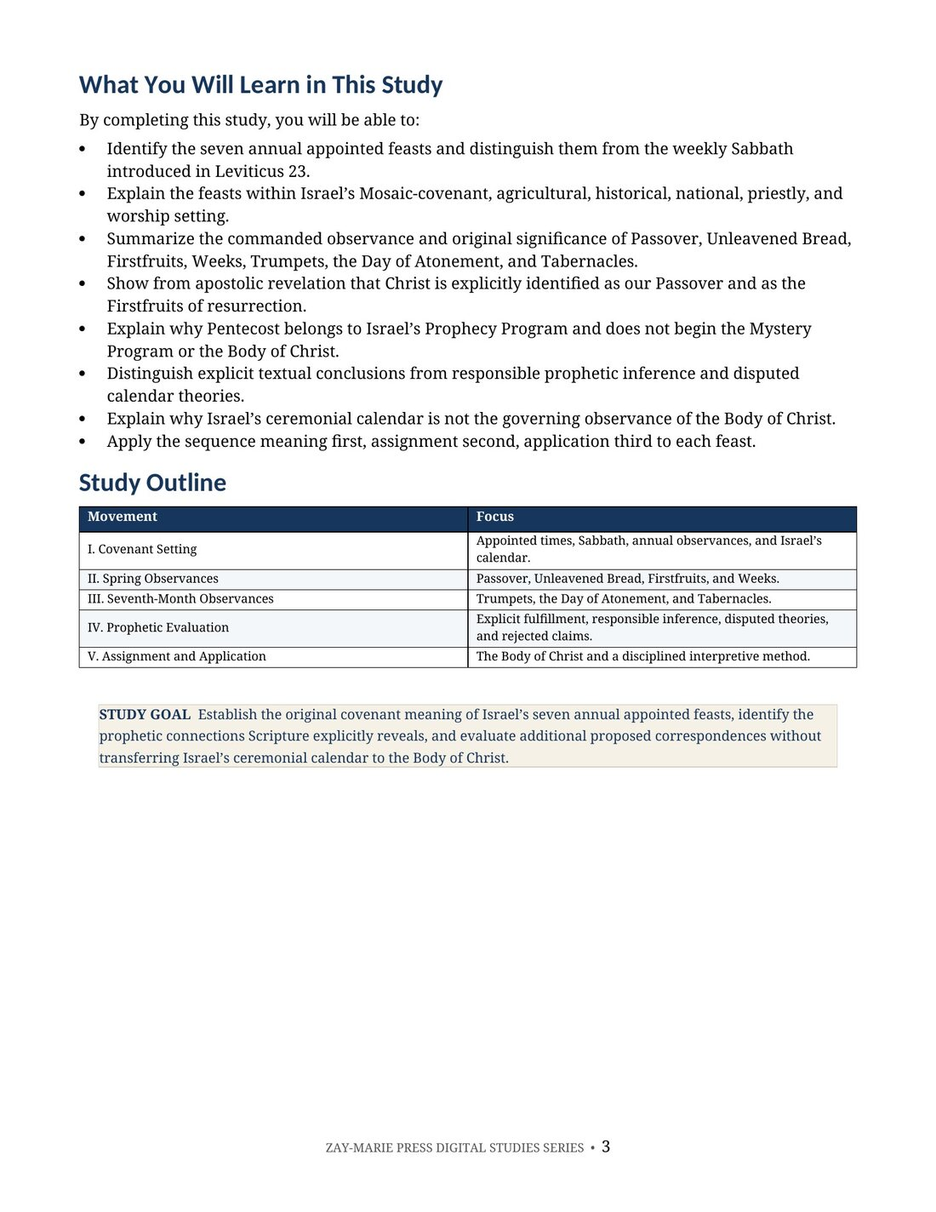
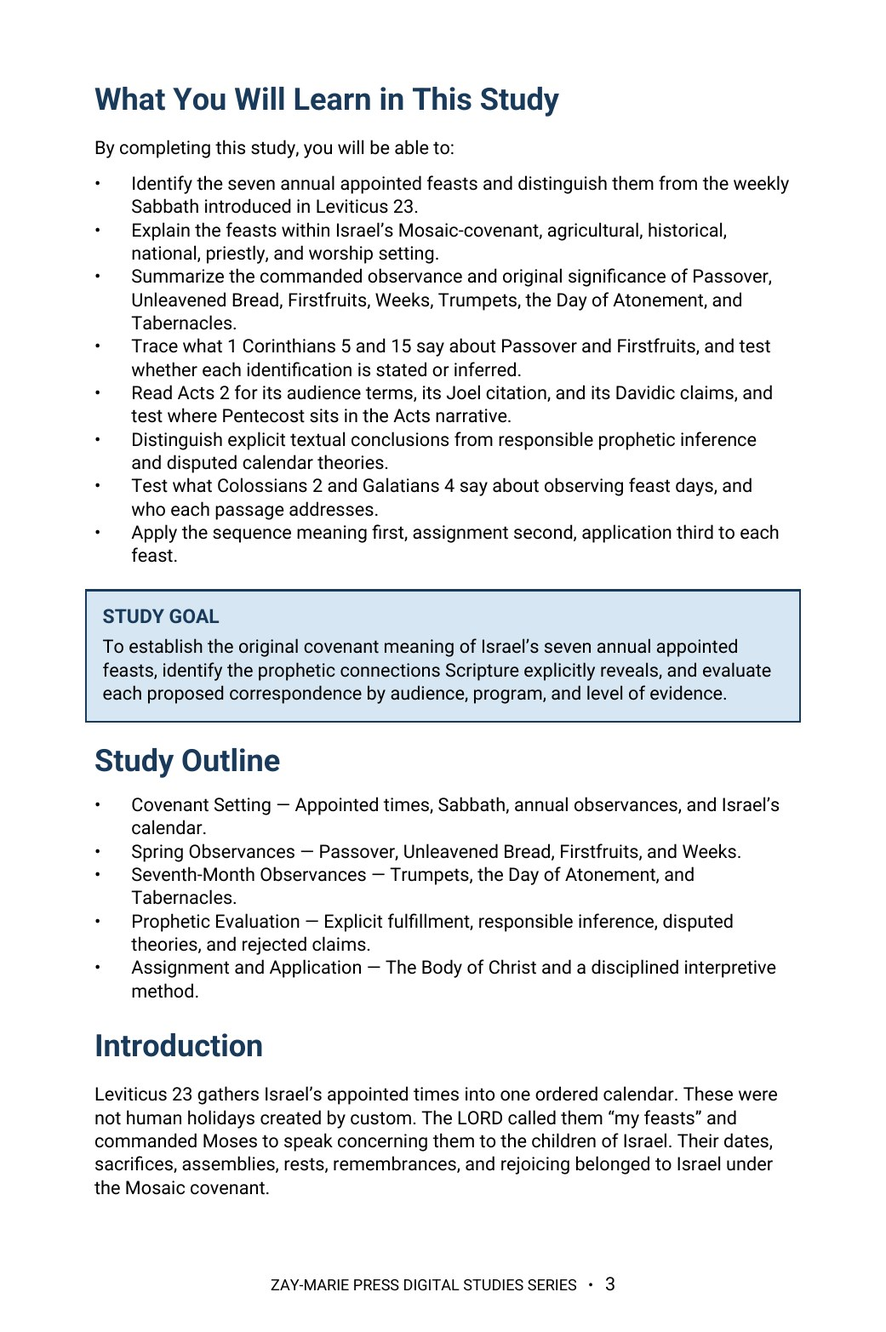
Study 27: Roboto/Standard rebuild, Standard cover with ISRAEL & PROPHECY label, previews 2/3/6, 16 pages; PAM audit v1.56
Claude-Session: https://claude.ai/code/session_01TLNFW47XCW6YAMUxScR3v4

Changed region(s): [[0.0615, 0.0618, 0.9222, 0.8961], [0.3074, 0.927, 0.6455, 0.9888]]

diff --git a/study-27-israels-seven-appointed-feasts.html b/study-27-israels-seven-appointed-feasts.html
@@ -2,12 +2,12 @@
 <html lang="en"><head><meta charset="utf-8"><meta name="viewport" content="width=device-width,initial-scale=1"><title>Israel’s Seven Appointed Feasts - Study 27 | Zay-Marie Press</title><meta name="description" content="Examine Israel’s seven annual appointed feasts in their Mosaic-covenant setting and evaluate their prophetic significance without transferring Israel’s calendar to the Body of Christ."><link rel="stylesheet" href="styles.css"><link rel="icon" type="image/png" href="assets/zay-marie-press-favicon.png"><style>
 .study-detail-page{background:#fff;color:#252525}.detail-hero{background:linear-gradient(135deg,#f8f5ec,#e3ece2);padding:58px 0}.detail-hero-grid{display:grid;grid-template-columns:minmax(250px,.72fr) minmax(0,1.28fr);gap:58px;align-items:center}.detail-cover{max-width:390px;margin:auto}.detail-cover img{display:block;width:100%;height:auto;box-shadow:0 14px 36px rgba(8,45,69,.18)}.detail-hero h1{font-size:clamp(2.7rem,5vw,4.7rem);line-height:1.02;margin:8px 0 10px;color:#143823}.detail-subtitle{font-family:Georgia,serif;font-size:1.35rem;font-weight:700;color:#082d45;margin:0 0 7px}.detail-kicker{font-family:Georgia,serif;font-style:italic;font-size:1.05rem;color:#4a4a44;margin:0 0 22px}.detail-copy{font-size:1.08rem;line-height:1.65;max-width:760px}.detail-buyline{display:flex;align-items:center;gap:18px;flex-wrap:wrap;margin-top:25px}.detail-price{font-family:Georgia,serif;font-size:2rem;font-weight:700;color:#143823}.detail-format,.preview-card .page-no{font-family:Arial,sans-serif;font-size:.76rem;font-weight:700;letter-spacing:.1em;text-transform:uppercase;color:#176b3a}.detail-button{display:inline-block;background:#176b3a;color:#fff;padding:13px 22px;font-family:Arial,sans-serif;font-size:.8rem;font-weight:700;letter-spacing:.07em;text-transform:uppercase}.detail-button.pending{opacity:.72;cursor:default}.detail-section{padding:66px 0}.detail-section.soft{background:#f6f7f2}.detail-section.cream{background:#faf8f2}.detail-section h2{color:#143823;margin:6px 0 18px;font-size:clamp(2rem,3.4vw,3rem)}.detail-section .lead{max-width:920px;font-size:1.1rem;line-height:1.62}.study-points{display:grid;grid-template-columns:repeat(3,1fr);gap:18px;margin-top:28px;margin-bottom:28px}.study-point,.scripture-card,.preview-card,.include-item{background:#fff;border:1px solid var(--line);text-align:left}.study-point{border-top:3px solid #176b3a;padding:22px}.study-point h3{color:#143823;margin:0 0 8px;font-size:1.2rem}.study-point p,.scripture-card p,.preview-card p,.include-item p{margin:0;line-height:1.55}.scripture-grid{display:grid;grid-template-columns:repeat(4,1fr);gap:14px;margin-top:24px;margin-bottom:24px}.scripture-card{padding:22px 20px;color:#143823}.scripture-card h3{margin:0 0 9px;font-family:Georgia,serif;font-size:1rem;line-height:1.35}.scripture-card p{font-size:.94rem;color:#45453f}.excerpt{max-width:900px;margin:28px auto;border-left:4px solid #b8871c;padding:10px 0 10px 28px}.excerpt blockquote{font-family:Georgia,serif;font-size:clamp(1.45rem,2.5vw,2rem);line-height:1.45;color:#143823;margin:0 0 16px}.excerpt p{line-height:1.6;margin:0}.preview-grid{display:grid;grid-template-columns:repeat(2,1fr);gap:20px;margin-top:28px;margin-bottom:28px}.preview-card{padding:18px;min-height:210px;box-shadow:0 7px 20px rgba(20,40,25,.05)}.preview-image-link{display:block;margin:0 0 18px}.preview-image-link img{display:block;width:100%;height:auto;border:1px solid #d8d1bf;box-shadow:0 8px 22px rgba(20,40,25,.1);transition:transform .18s ease,box-shadow .18s ease}.preview-image-link:hover img{transform:translateY(-2px);box-shadow:0 11px 28px rgba(20,40,25,.16)}.preview-card h3{color:#143823;margin:8px 0 10px}.preview-instruction{margin:10px 0 0;font-family:Arial,sans-serif;font-size:.78rem;letter-spacing:.04em;color:#5b5b55}.includes-grid{display:grid;grid-template-columns:repeat(4,1fr);gap:14px;margin-top:26px}.include-item{padding:22px 20px;color:#143823}.include-item h3{margin:0 0 9px;font-family:Arial,sans-serif;font-size:.86rem;line-height:1.35;letter-spacing:.02em}.include-item p{font-size:.94rem;color:#45453f}.final-buy{background:#082d45;color:#fff;border-top:4px solid #b8871c;padding:42px 48px;display:grid;grid-template-columns:1fr auto;gap:36px;align-items:center}.final-buy .eyebrow,.final-buy h2,.final-buy .detail-price{color:#fff}.final-buy h2{margin:7px 0 6px}.final-buy p{margin:0}.final-offer{text-align:center}.back-link{display:inline-block;margin-top:18px;color:#143823;font-family:Arial,sans-serif;font-weight:700;text-decoration:none}.preview-lightbox{position:fixed;inset:0;z-index:10000;display:none;align-items:flex-start;justify-content:center;background:rgba(8,22,16,.88);padding:24px;overflow:auto}.preview-lightbox.open{display:flex}.preview-lightbox img{display:block;width:auto;height:auto;max-width:none;box-shadow:0 18px 55px rgba(0,0,0,.4);background:#fff}.preview-lightbox-close{position:fixed;top:18px;right:24px;z-index:10001;width:46px;height:46px;border:1px solid rgba(255,255,255,.65);border-radius:50%;background:rgba(0,0,0,.55);color:#fff;font:32px/1 Arial,sans-serif;cursor:pointer}@media(max-width:900px){.detail-hero-grid{grid-template-columns:1fr;gap:34px}.detail-cover{max-width:330px}.study-points{grid-template-columns:repeat(2,1fr)}.scripture-grid,.includes-grid{grid-template-columns:repeat(2,1fr)}.preview-grid,.final-buy{grid-template-columns:1fr}.final-offer{text-align:left}}@media(max-width:560px){.detail-hero{padding:42px 0}.detail-section{padding:50px 0}.study-points,.scripture-grid,.includes-grid{grid-template-columns:1fr}.final-buy{padding:32px 24px}.detail-buyline{align-items:flex-start;flex-direction:column;gap:8px}.preview-lightbox{padding:58px 10px 24px}.preview-lightbox img{width:100%;max-width:100%;height:auto}}.study-distinction{max-width:920px;margin-top:28px;margin-bottom:28px;padding:26px 28px;background:#fff;border:1px solid #d8d1bf;border-left:4px solid #b8871c}.study-distinction h3{margin:0 0 10px;color:#143823}.study-distinction p{margin:0 0 14px;line-height:1.62}.study-distinction p:last-child{margin-bottom:0}.study-distinction a{font-family:Arial,sans-serif;font-weight:700;color:#176b3a;text-decoration:none}</style></head><body class="study-detail-page">
 <header class="site-header"><div class="wrap nav"><a class="logo" href="index.html" aria-label="Zay-Marie Press home"><img src="assets/zay-marie-press-logo-hq.png" alt="Zay-Marie Press" width="420" height="238"></a><button class="menu-toggle" type="button" aria-expanded="false" aria-controls="primary-nav">MENU</button><nav aria-label="Primary navigation" class="primary-nav" id="primary-nav"><a href="index.html">HOME</a><a href="books.html">BOOKS</a><a href="series.html">SERIES</a><a class="active" aria-current="page" href="digital-studies.html">DIGITAL STUDIES</a><a href="biblical-hermeneutics-course.html">COURSE</a><a href="about.html">ABOUT</a><a href="resources.html">RESOURCES</a><a href="contact.html">CONTACT</a></nav></div></header><main>
-<section class="detail-hero"><div class="wrap detail-hero-grid"><div class="detail-cover"><img src="assets/study-27-cover.jpg" alt="Israel’s Seven Appointed Feasts - Study 27 cover"></div><div><div class="eyebrow">STUDY 27 · DIGITAL STUDY</div><h1>Israel’s Seven Appointed Feasts</h1><p class="detail-subtitle">Their Covenant Setting, Historical Observance, and Prophetic Significance</p><p class="detail-kicker">A Biblical Examination of Leviticus 23, Israel’s Covenant Calendar, Christological Fulfillment, and Responsible Prophetic Inference</p><p class="detail-copy">Leviticus 23 orders seven annual observances for Israel under the Mosaic covenant. Each feast belongs first to the nation’s historical, agricultural, priestly, and worship setting.</p><p class="detail-copy">This study examines Passover through Tabernacles, identifies the prophetic connections Scripture states explicitly, evaluates additional proposed correspondences carefully, and explains why Israel’s ceremonial calendar does not govern the Body of Christ.</p><div class="detail-buyline"><span class="detail-price">$5.99</span><span class="detail-format">Digital PDF</span><span class="detail-button pending" aria-disabled="true">Checkout Coming Soon</span></div></div></div></section>
+<section class="detail-hero"><div class="wrap detail-hero-grid"><div class="detail-cover"><picture><source srcset="assets/study-27-cover.webp" type="image/webp"><img src="assets/study-27-cover.jpg" alt="Israel’s Seven Appointed Feasts - Study 27 cover"></picture></div><div><div class="eyebrow">STUDY 27 · DIGITAL STUDY</div><h1>Israel’s Seven Appointed Feasts</h1><p class="detail-subtitle">Their Covenant Setting, Historical Observance, and Prophetic Significance</p><p class="detail-kicker">A Biblical Examination of Leviticus 23, Israel’s Covenant Calendar, Christological Fulfillment, and Responsible Prophetic Inference</p><p class="detail-copy">Leviticus 23 orders seven annual observances for Israel under the Mosaic covenant. Each feast belongs first to the nation’s historical, agricultural, priestly, and worship setting.</p><p class="detail-copy">This study examines Passover through Tabernacles, identifies the prophetic connections Scripture states explicitly, evaluates additional proposed correspondences carefully, and explains why Israel’s ceremonial calendar does not govern the Body of Christ.</p><div class="detail-buyline"><span class="detail-price">$5.99</span><span class="detail-format">Digital PDF</span><span class="detail-button pending" aria-disabled="true">Checkout Coming Soon</span></div></div></div></section>
 <section class="detail-section"><div class="wrap"><div class="eyebrow">ABOUT THIS STUDY</div><h2>Read the Feasts Within Israel’s Covenant Calendar</h2><p class="lead">The LORD appointed the feasts to Israel, joining sacred time to national history, the land, harvest, priestly service, remembrance, cleansing, and rejoicing.</p><p class="lead">This study establishes that original setting before examining Christ our Passover, Christ the Firstfruits, Pentecost within Israel’s Prophecy Program, later prophetic associations, and the non-transfer of Israel’s calendar to the Body of Christ.</p><p class="lead">This is not a study of the general method for learning from Israel’s commands without taking over her covenant obligations, which Study 39 supplies, nor of the New Covenant’s own named recipients, which Study 12 establishes separately. Its task is narrower: to read Leviticus 23’s feasts in their own setting of land, harvest, and priestly service, and to ask which of Christ’s own fulfillments are already accomplished and which remain tied to Israel’s still-future calendar.</p><div class="study-distinction"><h3>How These Studies Relate</h3><p>Study 27 examines Israel’s appointed feasts in their covenant calendar, their relation to Christ, and the limits of present application.</p><p><a href="study-39-the-churchs-relationship-to-israels-scriptures.html">Study 39 — The Church’s Relationship to Israel’s Scriptures</a> Use a method for learning from Israel’s commands without taking over its covenant calendar; this clarifies how a feast can teach the Body without becoming its required observance.</p><p><a href="study-12-the-new-covenant.html">Study 12 — The New Covenant</a> Compare the feasts’ covenant setting with Jeremiah’s New Covenant recipients; this keeps Israel’s ceremonial and promised restoration contexts identifiable when considering later fulfillment.</p><p class="connection-guide-link"><a href="study-connections.html#study-27">Explore the full connection guide for Study 27 →</a></p></div></div></section>
-<section class="detail-section soft"><div class="wrap"><div class="eyebrow">WHAT YOU’LL STUDY</div><h2>Establish the Meaning Before Drawing the Prophetic Pattern</h2><div class="study-points"><div class="study-point"><h3>The Appointed Times</h3><p>Read Leviticus 23 as Israel’s covenant calendar and distinguish the weekly Sabbath from the seven annual observances.</p></div><div class="study-point"><h3>Spring Observances</h3><p>Examine Passover, Unleavened Bread, Firstfruits, and Weeks in their historical and agricultural settings.</p></div><div class="study-point"><h3>Seventh-Month Feasts</h3><p>Study Trumpets, the Day of Atonement, and Tabernacles with their commands, sacrifices, and national meaning.</p></div><div class="study-point"><h3>Explicit Fulfillment</h3><p>Trace the apostolic identification of Christ as our Passover and the Firstfruits of resurrection.</p></div><div class="study-point"><h3>Prophecy and Inference</h3><p>Separate explicit fulfillment from responsible inference, disputed calendar schemes, and unsupported date setting.</p></div><div class="study-point"><h3>The Body of Christ</h3><p>Explain why Pentecost belongs to Prophecy and why Israel’s feast calendar does not govern the Body.</p></div></div></div></section>
+<section class="detail-section soft"><div class="wrap"><div class="eyebrow">WHAT YOU’LL STUDY</div><h2>Establish the Meaning Before Drawing the Prophetic Pattern</h2><div class="study-points"><div class="study-point"><h3>The Appointed Times</h3><p>Read Leviticus 23 as Israel’s covenant calendar and distinguish the weekly Sabbath from the seven annual observances.</p></div><div class="study-point"><h3>Spring Observances</h3><p>Examine Passover, Unleavened Bread, Firstfruits, and Weeks in their historical and agricultural settings.</p></div><div class="study-point"><h3>Seventh-Month Feasts</h3><p>Study Trumpets, the Day of Atonement, and Tabernacles with their commands, sacrifices, and national meaning.</p></div><div class="study-point"><h3>Explicit Fulfillment</h3><p>Trace what Paul writes about Passover and Firstfruits, and test whether each connection is stated or inferred.</p></div><div class="study-point"><h3>Prophecy and Inference</h3><p>Separate explicit fulfillment from responsible inference, disputed calendar schemes, and unsupported date setting.</p></div><div class="study-point"><h3>The Body of Christ</h3><p>Read Acts 2, Colossians 2, and Galatians 4 for their audiences and test what each says about Pentecost and feast days.</p></div></div></div></section>
 <section class="detail-section cream"><div class="wrap"><div class="eyebrow">KEY SCRIPTURES</div><h2>Trace the Feasts Across Scripture</h2><div class="scripture-grid"><div class="scripture-card"><h3>Exodus 12–13</h3><p>Passover, Unleavened Bread, blood, deliverance, departure, and memorial.</p></div><div class="scripture-card"><h3>Leviticus 23</h3><p>The Sabbath and the complete annual cycle of Israel’s appointed observances.</p></div><div class="scripture-card"><h3>Leviticus 16</h3><p>The high priest, sacrificial blood, sanctuary cleansing, and the two goats.</p></div><div class="scripture-card"><h3>Numbers 10; 28–29</h3><p>Trumpet functions and the offerings appointed for Israel’s calendar.</p></div><div class="scripture-card"><h3>Joel 2; Acts 2</h3><p>Pentecost interpreted from Israel’s prophetic Scriptures and addressed to Israel.</p></div><div class="scripture-card"><h3>1 Corinthians 5; 15</h3><p>Christ explicitly identified as our Passover and the Firstfruits of resurrection.</p></div><div class="scripture-card"><h3>Hebrews 9–10</h3><p>Day-of-Atonement imagery and the superiority of Christ’s once-for-all sacrifice.</p></div><div class="scripture-card"><h3>Zechariah 12–14</h3><p>National mourning, cleansing, kingdom reign, and future observance of Tabernacles.</p></div></div></div></section>
 <section class="detail-section"><div class="wrap"><div class="eyebrow">FROM THE STUDY</div><h2>Meaning Comes Before Prophetic Inference</h2><div class="excerpt"><blockquote>“Later typology, fulfillment, quotation, or discussion does not erase a feast’s original audience or covenant setting.”</blockquote><p>Every proposed connection must be classified by the strength of its evidence while Israel’s covenant assignment and the Body’s completeness in Christ remain distinct.</p></div></div></section>
-<section class="detail-section soft"><div class="wrap"><div class="eyebrow">A LOOK INSIDE</div><h2>Preview the Study Before You Purchase</h2><p class="preview-instruction">Click any page to enlarge it for reading.</p><div class="preview-grid"><div class="preview-card"><a class="preview-image-link" data-preview-lightbox href="assets/study-27-page-3.jpg"><img src="assets/study-27-page-3.jpg" alt="Study 27 interior preview — page 3, learning outcomes and study outline"></a><div class="page-no">Page 3</div><h3>Learning Outcomes and Study Outline</h3><p>Begin with measurable outcomes and a clear path through covenant setting, the seven observances, prophetic evaluation, and application.</p></div><div class="preview-card"><a class="preview-image-link" data-preview-lightbox href="assets/study-27-page-7.jpg"><img src="assets/study-27-page-7.jpg" alt="Study 27 interior preview — page 7, Firstfruits and Pentecost"></a><div class="page-no">Page 7</div><h3>Firstfruits and Pentecost</h3><p>Follow the explicit resurrection connection and place Pentecost within Israel’s Prophecy Program.</p></div><div class="preview-card"><a class="preview-image-link" data-preview-lightbox href="assets/study-27-page-11.jpg"><img src="assets/study-27-page-11.jpg" alt="Study 27 interior preview — page 11, evidence categories for prophetic claims"></a><div class="page-no">Page 11</div><h3>Explicit Text and Responsible Inference</h3><p>Classify proposed feast connections as explicit, inferred, disputed, or rejected.</p></div><div class="preview-card"><a class="preview-image-link" data-preview-lightbox href="assets/study-27-page-15.jpg"><img src="assets/study-27-page-15.jpg" alt="Study 27 interior preview — page 15, teaching outline and guided further study"></a><div class="page-no">Page 15</div><h3>Teaching and Further Study Tools</h3><p>Use the teaching outline, six investigations, and final synthesis to extend the study responsibly.</p></div></div></div></section>
+<section class="detail-section soft"><div class="wrap"><div class="eyebrow">A LOOK INSIDE</div><h2>Preview the Study Before You Purchase</h2><p class="preview-instruction">Click any page to enlarge it for reading.</p><div class="preview-grid"><div class="preview-card"><a class="preview-image-link" data-preview-lightbox href="assets/study-27-page-2.jpg"><img src="assets/study-27-page-2.jpg" alt="Study 27 interior preview — page 2, table of contents"/></a><div class="page-no">Page 2</div><h3>Table of Contents</h3><p>See the full structure of the study, from the introduction through the final synthesis.</p></div><div class="preview-card"><a class="preview-image-link" data-preview-lightbox href="assets/study-27-page-3.jpg"><img src="assets/study-27-page-3.jpg" alt="Study 27 interior preview — page 3, what you will learn"/></a><div class="page-no">Page 3</div><h3>What You Will Learn</h3><p>See the skills you will practice and the study goal at a glance.</p></div><div class="preview-card"><a class="preview-image-link" data-preview-lightbox href="assets/study-27-page-6.jpg"><img src="assets/study-27-page-6.jpg" alt="Study 27 interior preview — page 6, Passover, Unleavened Bread, and Firstfruits"/></a><div class="page-no">Page 6</div><h3>Passover, Unleavened Bread, and Firstfruits</h3><p>Read each commanded observance beside what the New Testament says about it.</p></div></div></div></section>
 <section class="detail-section"><div class="wrap"><div class="eyebrow">WHAT’S INCLUDED</div><h2>A Focused Study Built for<br>Understanding and Teaching</h2><div class="includes-grid"><div class="include-item"><h3>Covenant Calendar</h3><p>Establish the stated audience, appointed dates, sacred assemblies, sacrifices, rests, and national setting.</p></div><div class="include-item"><h3>Seven Feast Survey</h3><p>Examine each annual observance from Passover through Tabernacles without collapsing their distinct meanings.</p></div><div class="include-item"><h3>Agricultural Context</h3><p>Connect firstfruits, harvest, and ingathering to Israel’s land and dependence upon the LORD.</p></div><div class="include-item"><h3>Christological Fulfillment</h3><p>Study the explicit apostolic connections between Christ, Passover, Firstfruits, and atonement imagery.</p></div><div class="include-item"><h3>Pentecost Control</h3><p>Read Acts 2 through Joel, its Israelite audience, Davidic promise, Kingdom proclamation, and required response.</p></div><div class="include-item"><h3>Evidence Categories</h3><p>Separate direct biblical identification, responsible inference, disputed theories, and claims that must be rejected.</p></div><div class="include-item"><h3>Programmatic Distinction</h3><p>Preserve Israel’s Prophecy Program and the Body’s Mystery identity revealed through Paul.</p></div><div class="include-item"><h3>Teaching and Discussion Tools</h3><p>Use the summary, key distinctions, Scripture tracing, review questions, teaching outline, and guided further study.</p></div></div></div></section>
 <section class="detail-section cream"><div class="wrap"><div class="final-buy"><div><div class="eyebrow">STUDY 27 · DIGITAL STUDY</div><h2>Israel’s Seven Appointed Feasts</h2><p>Digital PDF · For personal use</p></div><div class="final-offer"><div class="detail-price">$5.99</div><span class="detail-button pending" aria-disabled="true">Checkout Coming Soon</span></div></div><a class="back-link" href="digital-studies.html">← Back to All Digital Studies</a></div></section><section class="study-method-course-bridge"><div class="wrap"><div class="study-method-course-panel"><div><div class="eyebrow">BUILD THE INTERPRETIVE METHOD</div><h2>Want More Than a Focused Study?</h2><p>Digital Studies examine particular biblical subjects and difficult passages. The 40-lesson Biblical Hermeneutics course teaches a complete, repeatable method for establishing meaning in context, determining proper assignment, and making responsible application.</p></div><a class="btn btn-primary" href="biblical-hermeneutics-course.html">BIBLICAL HERMENEUTICS COURSE</a></div></div></section></main>
 <div class="preview-lightbox" id="preview-lightbox" role="dialog" aria-modal="true" aria-label="Expanded study preview"><button class="preview-lightbox-close" type="button" aria-label="Close preview">×</button><img id="preview-lightbox-image" alt=""></div><footer class="site-footer"><div class="wrap footer-grid"><div class="footer-about"><h3>Zay-Marie Press</h3><p class="footer-tagline"><em>Where the Bible Means What It Says.</em></p><p>Zay-Marie Press is a Christian theological publisher dedicated to producing doctrinally precise, carefully structured biblical resources that equip pastors, teachers, and serious students with clarity, depth, and Scripture-anchored truth.</p><p><a href="https://zaymariepress.com">zaymariepress.com</a><br/><a href="mailto:info@zaymariepress.com">info@zaymariepress.com</a></p></div><div class="footer-column"><h3>Explore</h3><div class="footer-links-stacked"><a href="books.html">Books</a><br/><a href="series.html">Series</a><br/><a href="biblical-hermeneutics-course.html">Course</a><br/><a href="digital-studies.html">Digital Studies</a><br/><a href="resources.html">Resources</a><br/><a href="bible-book-summaries.html">Bible Book Summaries</a><br/><a href="doctrinal-packets.html">Doctrinal Packets</a><br/><a href="historical-drift.html">Historical Drift</a><br/><a href="about.html">About</a><br/><a href="contact.html">Contact</a></div></div><div class="footer-column"><h3>Reader Support</h3><div class="footer-links-stacked"><a href="reader-support.html#faq">FAQ</a><br/><a href="reader-support.html#shipping-returns">Shipping &amp; Returns</a><br/><a href="reader-support.html#digital-downloads">Digital Downloads</a><br/><a href="reader-support.html#contact-support">Contact Support</a></div></div><div class="footer-column"><h3>Acts Overlap</h3><p><strong>Acts Overlap Theology Series</strong></p><p><em>Two Distinct Streams. One Overlap.</em></p><p><a href="series.html">Series Overview</a></p></div></div><div class="wrap footer-bottom">© 2026 Zay-Marie Press. All rights reserved.</div></footer><script src="site.js"></script><script>const lightbox=document.getElementById('preview-lightbox'),lightboxImage=document.getElementById('preview-lightbox-image'),closeLightbox=()=>{lightbox.classList.remove('open');lightboxImage.src='';};document.querySelectorAll('[data-preview-lightbox]').forEach(link=>link.addEventListener('click',event=>{event.preventDefault();lightboxImage.src=link.href;lightboxImage.alt=link.querySelector('img').alt;lightbox.classList.add('open');}));document.querySelector('.preview-lightbox-close').addEventListener('click',closeLightbox);lightbox.addEventListener('click',event=>{if(event.target===lightbox)closeLightbox();});document.addEventListener('keydown',event=>{if(event.key==='Escape')closeLightbox();});</script></body></html>

diff --git a/site.js b/site.js
@@ -62,7 +62,7 @@ const resourceModal=document.querySelector('#resource-modal'), resourceModalTitl
 if(resourceModal&&resourceModalTriggers.length){const closeResourceModal=()=>{resourceModal.hidden=true;document.body.classList.remove('resource-modal-open');lastResourceTrigger?.focus();};resourceModalTriggers.forEach(trigger=>trigger.addEventListener('click',()=>{lastResourceTrigger=trigger;if(resourceModalTitle)resourceModalTitle.textContent=trigger.dataset.title||'Resource';if(resourceModalDescription)resourceModalDescription.textContent=trigger.dataset.description||'';if(resourceModalLink){resourceModalLink.href=trigger.dataset.href||'#';resourceModalLink.textContent=trigger.dataset.linkText||'OPEN RESOURCE';}resourceModal.hidden=false;document.body.classList.add('resource-modal-open');resourceModalClose?.focus();}));resourceModalClose?.addEventListener('click',closeResourceModal);resourceModal.addEventListener('click',e=>{if(e.target===resourceModal)closeResourceModal();});document.addEventListener('keydown',e=>{if(e.key==='Escape'&&!resourceModal.hidden)closeResourceModal();});}
 
 /* Display the verified final-PDF page count at the primary purchase decision point. */
-const digitalStudyPageCounts={1:14,2:14,3:18,4:18,5:16,6:16,7:16,8:16,9:16,10:23,11:15,12:14,13:18,14:15,15:16,16:16,17:18,18:18,19:16,20:16,21:16,22:16,23:16,24:16,25:17,26:18,27:15,28:14,29:13,30:17,31:17,32:14,33:15,34:16,35:15,36:15,37:15,38:16,39:16,40:15,41:15,42:15,43:17,44:15,45:15,46:15,47:16,48:15,49:14,50:14,51:15,52:15,53:15,54:15,55:16,56:16,61:16,62:16,63:16,64:16,65:16,66:16,67:16,68:16,69:16,70:16,71:16};
+const digitalStudyPageCounts={1:14,2:14,3:18,4:18,5:16,6:16,7:16,8:16,9:16,10:23,11:15,12:14,13:18,14:15,15:16,16:16,17:18,18:18,19:16,20:16,21:16,22:16,23:16,24:16,25:17,26:18,27:16,28:14,29:13,30:17,31:17,32:14,33:15,34:16,35:15,36:15,37:15,38:16,39:16,40:15,41:15,42:15,43:17,44:15,45:15,46:15,47:16,48:15,49:14,50:14,51:15,52:15,53:15,54:15,55:16,56:16,61:16,62:16,63:16,64:16,65:16,66:16,67:16,68:16,69:16,70:16,71:16};
 const digitalStudyMatch=window.location.pathname.match(/\/study-(\d+)-/i);
 const digitalStudyFormat=document.querySelector('.detail-hero .detail-format');
 if(digitalStudyMatch&&digitalStudyFormat){const studyNumber=Number(digitalStudyMatch[1]),pageCount=digitalStudyPageCounts[studyNumber];if(pageCount)digitalStudyFormat.textContent=`Digital PDF · ${pageCount} Pages`;}

diff --git a/controlling-documents/Digital_Studies_PAM_Audit_v1.56.md b/controlling-documents/Digital_Studies_PAM_Audit_v1.56.md
@@ -1,4 +1,4 @@
-# Digital Studies vs. PAM Audit — v1.55
+# Digital Studies vs. PAM Audit — v1.56
 
 Working tracker and instructions for checking the Digital Studies against the Program Assignment Manual (PAM), §XIX of `Framework_Control_Document_Acts_Overlap.docx`, including its "Section 4 — Publisher Rulings". Same `_vX.Y` convention as the other controlling documents: update the status table and changelog as the audit proceeds, bump the version, and rename the file to match.
 
@@ -285,3 +285,4 @@ Study 15 PDF not yet supplied. Typography: none of Studies 2, 3, 6, 8 is in EB G
 - v1.53 (2026-10-01): Study 24 (The Willful Sin Warning) read in full against the PAM and Framework from the publisher's PDF (13 pages; no DOCX): no conflicts (Overlap statements match the Framework and PAM Rule 4; New Covenant never applied to the Body, matching Framework item 6; Body's standing kept in the Mystery). The PAM does not assign Hebrews as a book, so §10 was retitled "Audience and Program: Hebrews in Its Covenant Setting" and an anchoring sentence added (PAM Rule 1): the Framework does not assign Hebrews; the reading rests on the letter's audience markers and the New Covenant ruling. Publisher ruling recorded in the Framework (§XIX, "Section 4 (continued) — Additional Publisher Ruling (2026-10-01)") and in CLAUDE.md: Hebrews is unassigned as a book but read interpretively within Israel's Prophecy line for covenant context; stated as an interpretive reading, and Hebrews' warnings are not converted into warnings to the Body. The source PDF had three patch defects, repaired (cut-off §10 sentence, cut-off Conclusion sentence, Review Questions numbered 6–15 → 1–10). Rebuilt to the Master Standard (Roboto, five boxed callouts — Context Control and Key Distinction became run-ins, TOC first, flat-bullet Teaching Outline, standard imprint, What You Will Learn in process wording per §17) with three approved KJV tables; 16 pages. Cover: publisher's PASSAGES cover, "SIN WARNING" reduced 25%, JPG + WebP (source image 684×1024, enlarged to 1024×1536). Website: three previews (pages 2 TOC, 3 What You Will Learn, 11 warning passages compared) replacing three; page count 13 → 16 in site.js. Publisher approved ("i approve").
 - v1.54 (2026-10-01): Study 25 (The Signs That Followed) read in full against the PAM and Framework from the publisher's PDF (13 pages; no DOCX): no conflicts (Acts 1–8 Prophecy and Acts 9–28 Overlap per PAM Rule 4; Acts 2 tongues as a Joel 2 prophetic sign and "Repent and be baptized" as Kingdom entry; 1 Corinthians 1:17 and Spirit baptism into one Body distinct from water baptism per the Framework's water-baptism ruling; Paul's signs not transferring the Kingdom Commission per the Framework's signs section; 1 Corinthians 13:8–10 not addressed). Approved additions (study silent where the Framework speaks): Paul's own baptizing (1 Corinthians 1:14–16; Acts 16:15, 33; 18:8; 19:5) in §14; the Framework's four tests for signs (audience, purpose, revelatory setting, immediate context) in §13; and a Rule 1 sentence in §1 stating that the Framework names Matthew 28:18–20, Luke 24:47 and Acts 1:8 as the Twelve's Kingdom Commission and that Mark 16:15–20 is read alongside them as an interpretive reading. Rebuilt to the Master Standard (Roboto, five boxed callouts — Audience Control and Acts Overlap and Distinct Commissions became run-ins, TOC first, bullet Teaching Outline and Summary, Review Questions renumbered 1–10, standard imprint; What You Will Learn and Study Goal rewritten in process wording per §17). Two KJV tables added (Mark 16:15–20; the signs beside the Acts accounts); a third (parallel commissions) was written but left out because it pushed the study to 18 pages; 17 pages, one over the 16-page target, accepted by the publisher. Cover built from the publisher's artwork (landscape image placed under a dark title field; "Made with AI" badge and the quotation line removed; PASSAGES label; title and subtitle reduced 30%, subtitle moved up), JPG + WebP. Website: three previews (pages 2 TOC, 3 What You Will Learn, 10 signs beside the Acts accounts) replacing three; page count 13 → 17 in site.js. Publisher approved ("i approve").
 - v1.55 (2026-10-01): Study 26 (The Seven Churches of Revelation) read in full against the PAM and Framework from the publisher's DOCX (17 interior pages): no conflicts. The PAM assigns no program to Revelation as a book (Rule 1) and the Framework addresses only §XVII (144,000; male child of Rev 12:5), so the study's placement of Revelation 1–3 within Israel's Prophecy line is stated as an interpretive reading drawn from the text's own markers, not a PAM assignment (same treatment as Hebrews, v1.53); the §14 Assignment paragraph and the Conclusion were reworded to say so. "No covenantal tie to the New Jerusalem" for the Body matches the Framework. Approved addition: one sentence in §8 (Thyatira) noting that the Framework extends the rod-of-iron authority to overcomers in company with Christ (Rev 2:26–27) with a pointer to Study 61. Rebuilt to the Master Standard (Roboto, five boxed callouts with Word Study, Evidence and Historical Inference as run-ins, Slate Blue tables, TOC first, Study Outline as bullets, 18 pages including cover; length exception, 17 interior). What You Will Learn points 2, 3, 7 and 8, the Study Goal, and the website "What You'll Study" points 3 and 6 were reworded in process wording (§17). Cover: publisher's artwork with ISRAEL & PROPHECY label; title restacked at the publisher's direction (THE SEVEN CHURCHES / OF / REVELATION, the last two lines reduced 30% and then a further 25%). Previews: pages 2, 3 and 11 (Promises to the Overcomers). Category: Israel & Prophecy (Category Standard v1.1).
+- v1.56 (2026-10-01): Study 27 (Israel's Seven Appointed Feasts) read in full against the PAM and Framework from the publisher's DOCX (17 interior pages): clear, no conflicts (Acts 2 Pentecost as Prophecy, Mystery from Acts 9, Prophecy and Mystery concurrent to Acts 28 per PAM Rule 4 and the Framework; 1 Corinthians 5 and 15:20–23 reported as explicit Christological identifications without placing the Body under Israel's calendar; Lord's Supper not equated with Passover per the 1 Cor 11 ruling; Matthew 24:29–31 treated as Israel's gathering, not a rapture text; Hebrews 9–10 used for Christ's sacrifice without assigning the letter to the Body; John 7, Colossians 2 and Galatians 4 reported as text, PAM silent). Rebuilt to the Master Standard (Roboto, five boxed callouts with six run-ins, Slate Blue tables, TOC first, Study Outline as bullets, 16 pages including cover, exactly 15 interior). What You Will Learn points 4, 5 and 7, the Study Goal, and website "What You'll Study" points 4 and 6 reworded in process wording (§17). Cover built from the publisher's artwork in the DOCX to the Standard (logo, side strips and lettering removed; ISRAEL & PROPHECY label, centred Poppins title and subtitle). Website previews reduced from four to three (pages 2, 3 and 6). Category: Israel & Prophecy.
